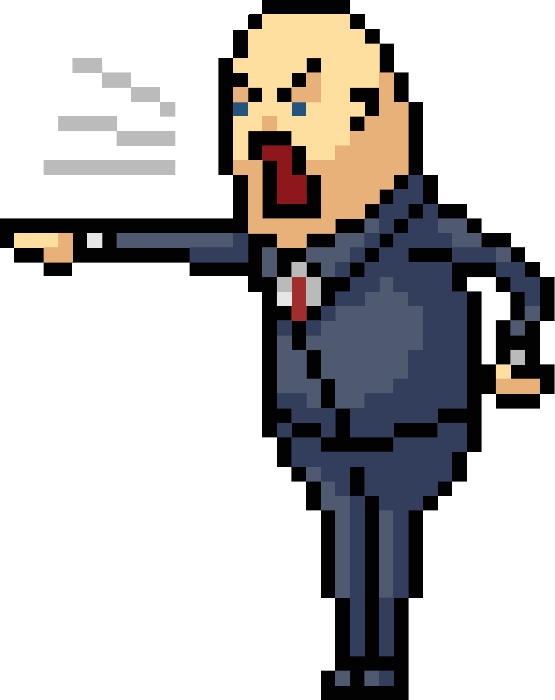
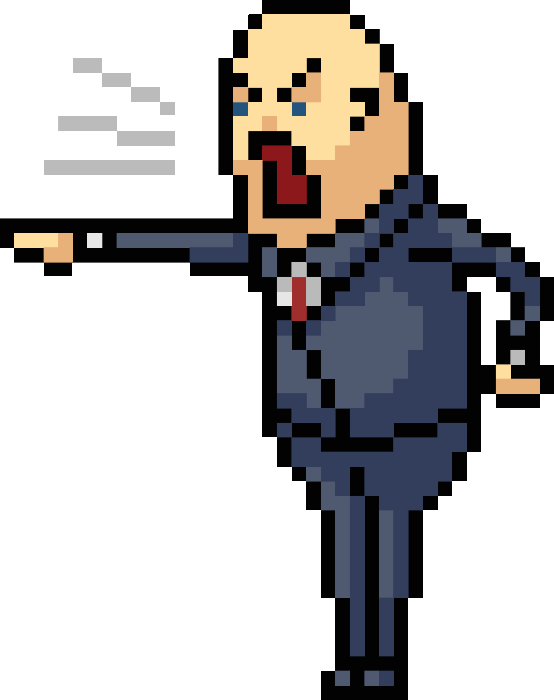
Change angry-boss image and add manager image

diff --git a/assets/css/style.css b/assets/css/style.css
@@ -80,7 +80,7 @@ body {
 }
 
 .manager {
-    background: url("../images/angry-boss.png") no-repeat center center/cover;
+    background: url("../images/manager.png") no-repeat center center/cover;
 }
 
 .hr {
